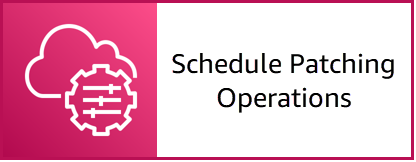
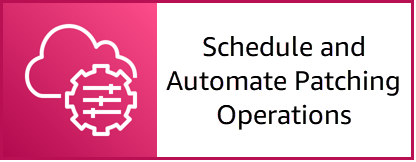
Updating wording

Changed region(s): [[0.375, 0.216, 0.9688, 0.8025]]

diff --git a/episode-04-step-02-enable-automation.md b/episode-04-step-02-enable-automation.md
@@ -1,4 +1,4 @@
-# Scheduling and Automating Patching Operations
+# Schedule and Automate Patching Operations
 
 ![](media/ssm-aws-logo.png)
 
